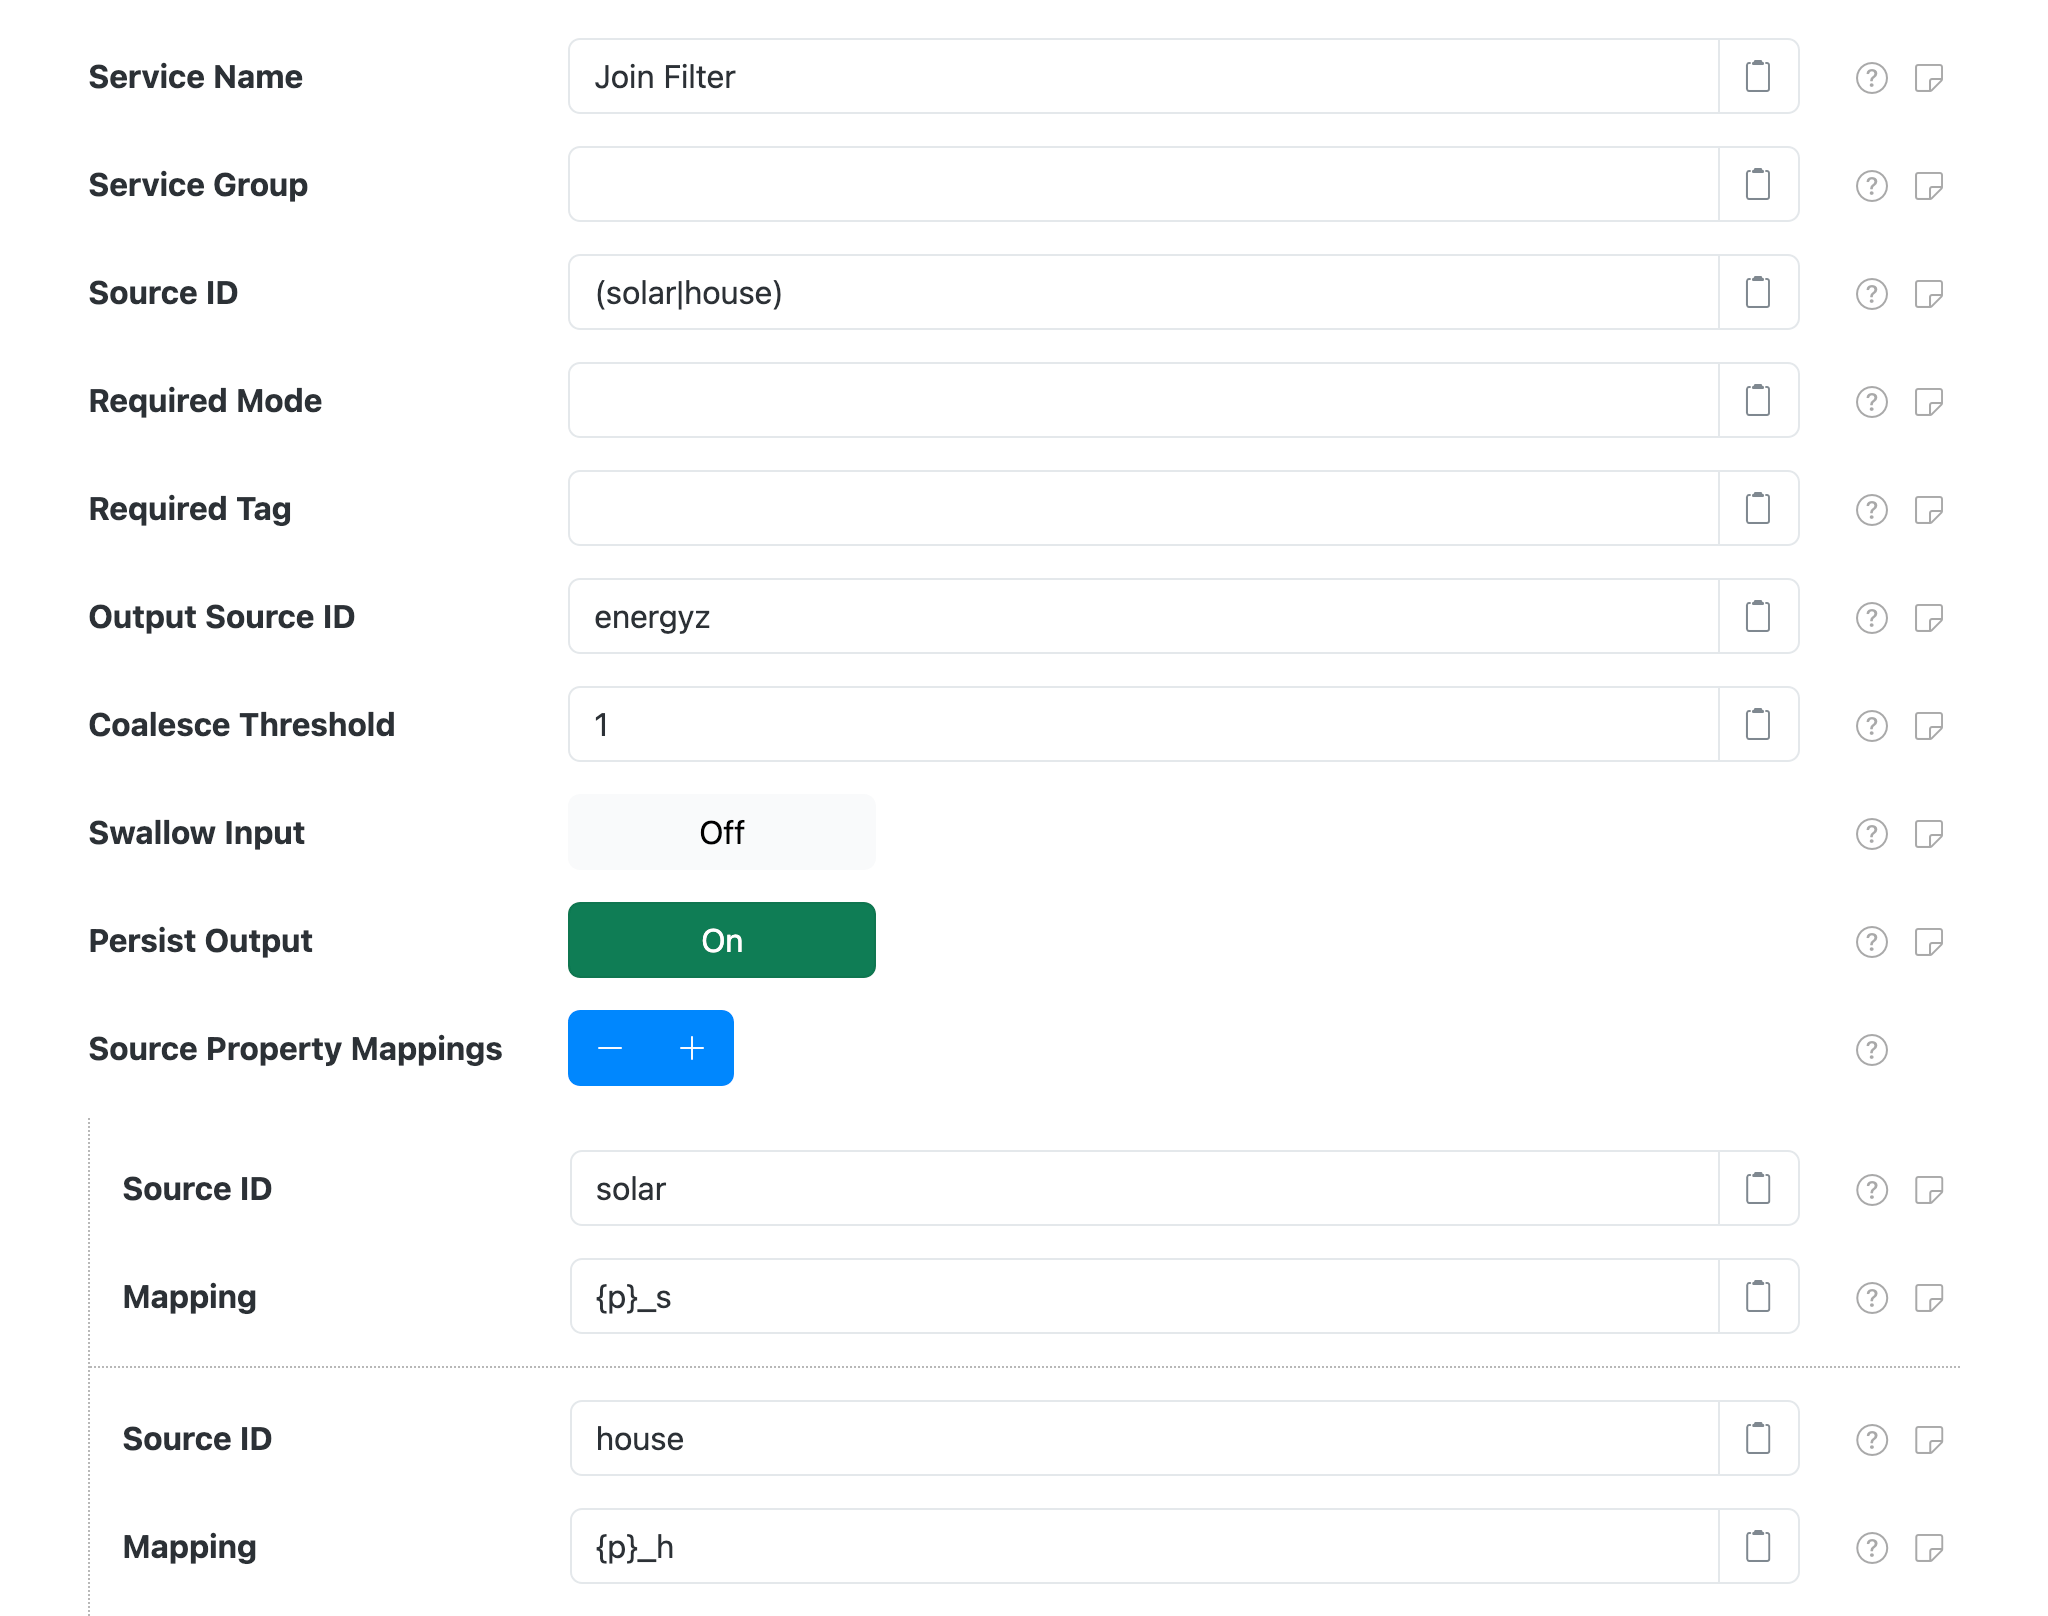
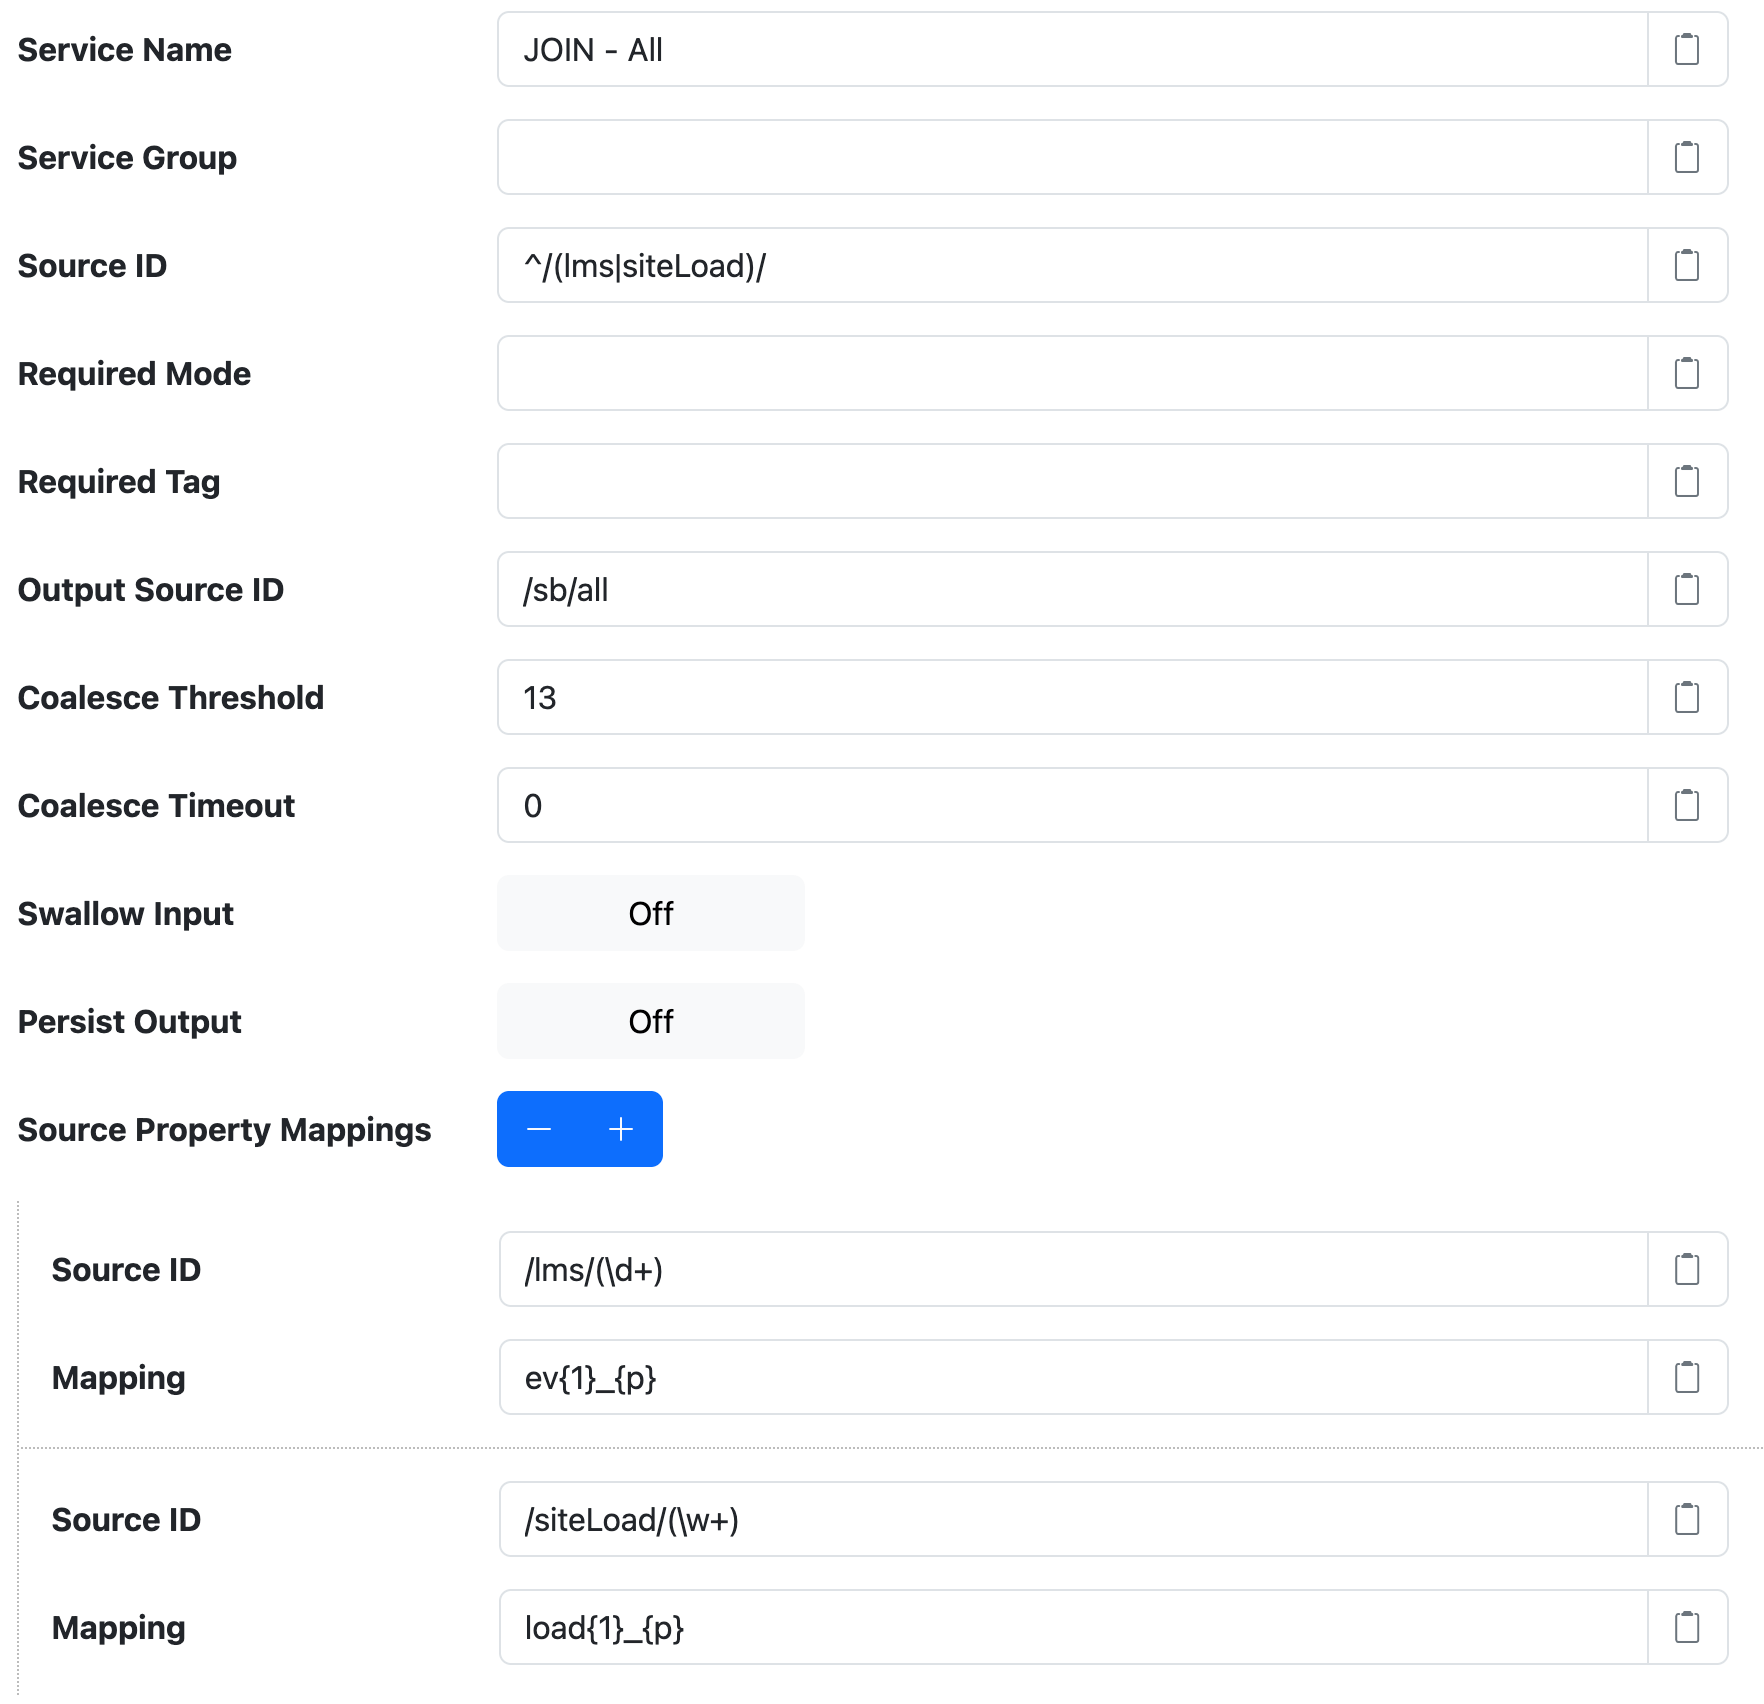
Update Join docs.

diff --git a/docs/users/datum-filters/join.md b/docs/users/datum-filters/join.md
@@ -11,7 +11,7 @@ This filter is provided by the [Standard Datum Filters][sdf] plugin.
 ## Settings
 
 <figure markdown>
-  ![Join filter component settings](../../images/users/datum-filters/join-filter-settings@2x.png){width=1024 loading=lazy}
+  ![Join filter component settings](../../images/users/datum-filters/join-filter-settings@2x.png){width=882 loading=lazy}
 </figure>
 
 In addition to the [Common Settings][datumfilter-common-settings], the following general settings are available:
@@ -20,11 +20,12 @@ In addition to the [Common Settings][datumfilter-common-settings], the following
 |:--------------------|:------------------------------------------------------------------|
 | Output Source ID    | The source ID of the merged datum stream. [Placeholders][placeholders] are allowed. |
 | Coalesce Threshold  | When `2` or more then wait until datum from this many _different_ source IDs have been encountered before generating an output datum. Once a coalesced datum has been generated the tracking of input sources resets and another datum will only be generated after the threshold is met again. If `1` or less, then generate output datum for all input datum. |
+| Coalesce Timeout    | When greater than `0` and **Coalesce Threshold** is `2` or more then wait at most this amount of milliseconds for all source IDs to be coalesced before generating a datum out of whatever source IDs have been seen since the last generated datum. If the coalesce threshold is satisfied before this timeout occurs, a datum will be generated as normal. This means a datum will always be generated at at least this frequency, but the datum may not contain properties from all sources. |
 | Swallow Input       | If enabled, then filter out input datum after merging. Otherwise leave the input datum as-is. |
 | Persist Output     | If enabled then process and persist output datum after merging. Otherwise process output datum but do not persist them. |
 | Source Property Mappings |  A list of source IDs with associated property name templates to rename the properties with. Each template must contain a `{p}` parameter which will be replaced by the property names merged from datum encountered with the associated source ID. For example `{p}_s1` would map an input property `watts` to `watts_s1`. |
 
-Use the <kbd>+</kbd> and <kbd>-</kbd> buttons to add/remove expression configurations.
+Use the <kbd>+</kbd> and <kbd>-</kbd> buttons to add/remove source property configurations.
 
 ## Source Property Mappings settings
 
